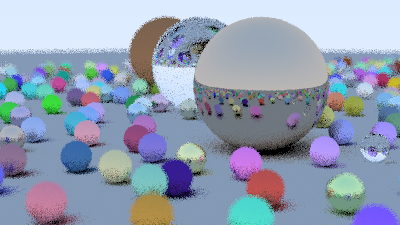
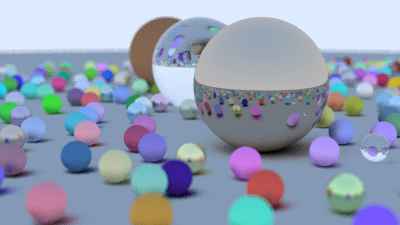
update

diff --git a/ray-tracing-in-one-weekend/main.cpp b/ray-tracing-in-one-weekend/main.cpp
@@ -8,22 +8,6 @@
 #include "src/bvh/bvh.h"
 #include <iostream>
 
-//float hit_sphere(const Eigen::Vector3f& center, float radius, const Ray& r) {
-//    Eigen::Vector3f oc = r.start() - center;
-//    auto a = r.direction().dot(r.direction());
-//    auto half_b = oc.dot(r.direction());
-//    auto c = oc.dot(oc) - radius * radius;
-//    auto discriminant = half_b * half_b - a * c;
-//    if (discriminant < 0)
-//    {
-//        return -1.0;
-//    }
-//    else
-//    {
-//        return (-half_b - sqrt(discriminant)) / a;
-//    }
-//}
-
 Eigen::Vector3f ray_color(const Ray& r, const Hittable& world, int depth)
 {
     if (depth <= 0)
@@ -38,8 +22,6 @@ Eigen::Vector3f ray_color(const Ray& r, const Hittable& world, int depth)
         if (rec.mat_ptr->scatter(r, rec, attenuation, scattered))
             return multi_respectively(attenuation, ray_color(scattered, world, depth - 1));
         return Eigen::Vector3f(0, 0, 0);
-        //Eigen::Vector3f target = rec.p + random_in_hemisphere(rec.normal);
-        //return 0.5 * ray_color(Ray(rec.p, target - rec.p), world, depth - 1);
     }
     Eigen::Vector3f unit_direction = r.direction().normalized();
     float t = 0.5 * (unit_direction.y() + 1.0);
@@ -107,14 +89,14 @@ int main() {
     const auto aspect_ratio = 16.0 / 9.0;
     const int image_width = 400;
     const int image_height = static_cast<int>(image_width / aspect_ratio);
-    const int samples_per_pixel = 4;
-    const int max_depth = 5;
+    const int samples_per_pixel = 100;
+    const int max_depth = 20;
 
     // World
     //HittableList world;
     HittableList world = random_scene();
     std::vector<shared_ptr<Hittable>> objects = world.objects;
-    BvhNode root(objects, 0, objects.size(), 0, 1);
+    BvhNode root(objects, 0, objects.size(), 0, 0);
 
     //auto material_ground = make_shared<Lambertian>(Eigen::Vector3f(0.8, 0.8, 0.0));
     //auto material_center = make_shared<Lambertian>(Eigen::Vector3f(0.1, 0.2, 0.5));

diff --git a/ray-tracing-in-one-weekend/src/objects/sphere.h b/ray-tracing-in-one-weekend/src/objects/sphere.h
@@ -19,6 +19,22 @@ public:
     Eigen::Vector3f center;
     float radius;
     shared_ptr<Material> mat_ptr;
+
+private:
+    static void get_sphere_uv(const vec3f& p, float& u, float& v) {
+        // p: a given point on the sphere of radius one, centered at the origin.
+        // u: returned value [0,1] of angle around the Y axis from X=-1.
+        // v: returned value [0,1] of angle from Y=-1 to Y=+1.
+        //     <1 0 0> yields <0.50 0.50>       <-1  0  0> yields <0.00 0.50>
+        //     <0 1 0> yields <0.50 1.00>       < 0 -1  0> yields <0.50 0.00>
+        //     <0 0 1> yields <0.25 0.50>       < 0  0 -1> yields <0.75 0.50>
+
+        auto theta = acos(-p.y());
+        auto phi = atan2(-p.z(), p.x()) + PI;
+
+        u = phi / (2 * PI);
+        v = theta / PI;
+    }
 };
 
 bool Sphere::hit(const Ray& r, float t_min, float t_max, HitRecord& rec) const {

diff --git a/ray-tracing-in-one-weekend/src/utils/texture.h b/ray-tracing-in-one-weekend/src/utils/texture.h
@@ -1,0 +1,27 @@
+#ifndef TEXTURE_H
+#define TEXTURE_H
+
+#include "global.h"
+
+class Texture {
+public:
+    virtual vec3f value(float u, float  v, const vec3f& p) const = 0;
+};
+
+class SolidColor : public Texture {
+public:
+    SolidColor() {}
+    SolidColor(vec3f c) : color_value(c) {}
+
+    SolidColor(float red, float green, float blue)
+        : SolidColor(vec3f(red, green, blue)) {}
+
+    virtual vec3f value(float u, float v, const vec3f& p) const override {
+        return color_value;
+    }
+
+private:
+    vec3f color_value;
+};
+
+#endif

diff --git a/ray-tracing-in-one-weekend/src/utils/global.h b/ray-tracing-in-one-weekend/src/utils/global.h
@@ -1,12 +1,12 @@
 #ifndef GLOBAL_H
 #define GLOBAL_H
 
+// Common Headers
+
 #include <cmath>
 #include <limits>
 #include <memory>
 #include <cstdlib>
-
-// Common Headers
 #include <Eigen/Dense>
 
 // Usings
@@ -16,6 +16,7 @@ using std::make_shared;
 using std::sqrt;
 
 // Type define
+
 typedef Eigen::Vector3f vec3f;
 
 // Constants

diff --git a/ray-tracing-in-one-weekend/src/ray/hittable.h b/ray-tracing-in-one-weekend/src/ray/hittable.h
@@ -11,6 +11,7 @@ struct HitRecord {
     Eigen::Vector3f normal;
     std::shared_ptr<Material> mat_ptr;
     float t;
+    float u, v; // uv坐标
     bool front_face;
 
     inline void set_face_normal(const Ray& r, const Eigen::Vector3f& outward_normal) {
